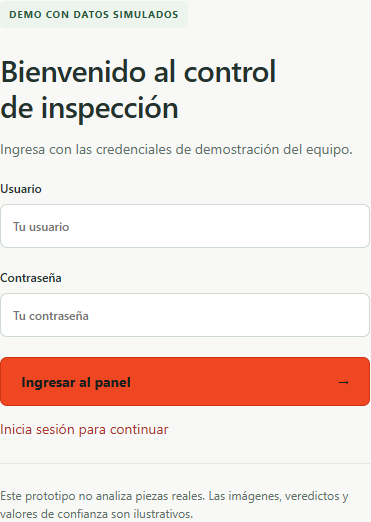
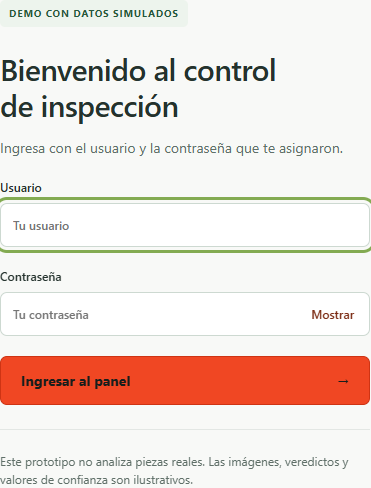
docs: verificar integracion y distinguir evidencia HTTPS historica

diff --git a/docs/PRUEBAS.md b/docs/PRUEBAS.md
@@ -86,3 +86,10 @@ La nueva comprobación HTTPS pública está en evidencias/cloudflare-verificacio
 Verificación del 11/11/2026: 9 pruebas Python locales y 9 en Docker, 2 de imágenes y recorridos de cuatro roles aprobados. Se verificaron filtros, exportación, gráficos, visor, 401/403 y regresión de sesión. Docker conservó 38 eventos y el filtro histórico; HTTPS respondió 200/401/200. Son pruebas de software, no métricas de IA. La Victus y la disponibilidad en clase no se dan por verificadas.
 
 Pruebas del navegador sobre base aislada, sin generar eventos en el historial operativo. Incluye aviso de solo lectura cuando se retira simulate y bloqueo 403. La nueva sección de contexto conserva ocho defectos más OK y tres estaciones. AnyIO/Starlette emitió una advertencia de deprecación, sin fallo. Captura api-posvisita.png representa las respuestas reales registradas en cloudflare-posvisita.json, con token omitido; no es una captura de consola Docker. El arranque de Docker se repitió, API healthy y UI actualizada. No se repitió prueba física desde teléfono en esta revisión.
+
+
+## Integración del cambio remoto de interfaz
+
+Durante el cierre se detectó `fea1f90`, publicado en la rama por otro trabajo. Se integró sin descartar mejoras de login, indicadores, historial o visor. El único conflicto fue index.html: se conservó la estructura remota y se incorporó el contexto de visita. No se cambiaron backend, contraseñas, permisos o catálogo. Se repitieron los cuatro roles, regresión de sesión, exportación, gráficos, visor e imágenes; todos pasaron sin modificar pruebas. También pasaron 9 pruebas Python sobre la integración; se reconstruyó Docker y se comprobó nuevamente reinicio con 38 eventos y filtro [32,27,26,2]. La comprobación HTTPS posterior NO pudo completarse: primero falló DNS y en el último intento Docker Engine no estaba disponible. cloudflare-integracion.json registra esta limitación; el éxito 200/401/200 de las 15:35 permanece como evidencia histórica. La ejecución de 9 pruebas en imagen Docker corresponde al paquete previo a esta integración solo de frontend.
+
+Las capturas del PDF conservan fecha y carácter histórico; el texto académico sigue vigente. Login y contexto se recapturaron con la interfaz integrada. No se atribuyen las mejoras remotas a la modificación mínima posvisita.

diff --git a/docs/CAMBIOS.md b/docs/CAMBIOS.md
@@ -48,3 +48,10 @@ El arreglo de la franja no cambia permisos: limpia estado de errores entre sesio
 ## Actualización posvisita 11 de noviembre de 2026
 
 Informe nuevo sin sobrescribir originales; datos de visita y enfoque híbrido; cálculos y diagramas nuevos; cambio mínimo de texto en index.html; pruebas repetidas y evidencia HTTPS nueva. No se modifican API, usuarios, permisos o eventos. Publicación autorizada de los entregables sanitizados y capturas del demo; se excluyen originales privados, .env y fotos industriales.
+
+
+## Integración del cambio remoto de interfaz
+
+Durante el cierre se detectó `fea1f90`, publicado en la rama por otro trabajo. Se integró sin descartar mejoras de login, indicadores, historial o visor. El único conflicto fue index.html: se conservó la estructura remota y se incorporó el contexto de visita. No se cambiaron backend, contraseñas, permisos o catálogo. Se repitieron los cuatro roles, regresión de sesión, exportación, gráficos, visor e imágenes; todos pasaron sin modificar pruebas. También pasaron 9 pruebas Python sobre la integración; se reconstruyó Docker y se comprobó nuevamente reinicio con 38 eventos y filtro [32,27,26,2]. La comprobación HTTPS posterior NO pudo completarse: primero falló DNS y en el último intento Docker Engine no estaba disponible. cloudflare-integracion.json registra esta limitación; el éxito 200/401/200 de las 15:35 permanece como evidencia histórica. La ejecución de 9 pruebas en imagen Docker corresponde al paquete previo a esta integración solo de frontend.
+
+Las capturas del PDF conservan fecha y carácter histórico; el texto académico sigue vigente. Login y contexto se recapturaron con la interfaz integrada. No se atribuyen las mejoras remotas a la modificación mínima posvisita.

diff --git a/docs/ESTADO_ENTREGA.md b/docs/ESTADO_ENTREGA.md
@@ -23,3 +23,10 @@ Las seis cuentas existentes incluyen los cuatro usuarios *-demo previstos; se co
 ## Pendientes concretos
 
 Número oficial; campos URL/token verificado de la copia privada; disponibilidad del túnel durante clase; ejemplos de defectos y autorización; validación escrita de vocabulario/criterio mecánico; dimensiones/flujo/captura/seguridad. No se atribuyen métricas reales a simulaciones. El despliegue Victus solo es necesario si será el equipo de presentación.
+
+
+## Integración del cambio remoto de interfaz
+
+Durante el cierre se detectó `fea1f90`, publicado en la rama por otro trabajo. Se integró sin descartar mejoras de login, indicadores, historial o visor. El único conflicto fue index.html: se conservó la estructura remota y se incorporó el contexto de visita. No se cambiaron backend, contraseñas, permisos o catálogo. Se repitieron los cuatro roles, regresión de sesión, exportación, gráficos, visor e imágenes; todos pasaron sin modificar pruebas. También pasaron 9 pruebas Python sobre la integración; se reconstruyó Docker y se comprobó nuevamente reinicio con 38 eventos y filtro [32,27,26,2]. La comprobación HTTPS posterior NO pudo completarse: primero falló DNS y en el último intento Docker Engine no estaba disponible. cloudflare-integracion.json registra esta limitación; el éxito 200/401/200 de las 15:35 permanece como evidencia histórica. La ejecución de 9 pruebas en imagen Docker corresponde al paquete previo a esta integración solo de frontend.
+
+Las capturas del PDF conservan fecha y carácter histórico; el texto académico sigue vigente. Login y contexto se recapturaron con la interfaz integrada. No se atribuyen las mejoras remotas a la modificación mínima posvisita.

diff --git a/docs/evidencias/README.md b/docs/evidencias/README.md
@@ -21,3 +21,6 @@ Las 12 capturas fueron autorizadas para publicación tras revisión. Son evidenc
 - `calculos-posvisita.json`: resultados de fórmulas de diseño; no son observaciones de planta.
 
 Las figuras 4–5 son recortes de capturas históricas autorizadas; no cambian valores ni identificadores. La verificación actual de filtros y persistencia está registrada por separado. Los gráficos de los cuatro roles se volvieron a comprobar en una base aislada; no se atribuyen sus contadores al historial operativo.
+
+
+Se integró el commit remoto fea1f90 durante el cierre. Login y contexto se recapturaron; api-posvisita.png y cloudflare-posvisita.json conservan el registro de las 15:35 usado en el PDF. cloudflare-integracion.json registra la revalidación externa no completada (DNS y, después, Docker Engine no disponible); no acredita otro éxito HTTPS.

diff --git a/docs/REVISION_PUBLICACION.md b/docs/REVISION_PUBLICACION.md
@@ -36,4 +36,4 @@ El prompt maestro autoriza publicar los entregables sanitizados. Se inspeccionar
 | informe/CP1_PC08_final_sanitizado.pdf | 69a4833cd6f7c012e599cf2cc8818f4ae605ae53eeb06525b34778d3ecf92db3 |
 | evidencias/api-posvisita.png | a8c6829d2f6515807f52313de4e0622ad0c62ceadbb51fe74e881cc83e55e521 |
 | evidencias/contexto-posvisita.png | ecca7116f8cd18bd40eafca677162b1580fb9117d6ed83f945c358d15f812db7 |
-| evidencias/login-posvisita.png | 4f80db34fd363a11141059b1cd92254a61127f59f158a5c741b40155d2656c08 |
+| evidencias/login-posvisita.png | 975ec79f9793f48dca6c0fbac0cad5d507e687a036b059177cb1ffff1bd84994 |
